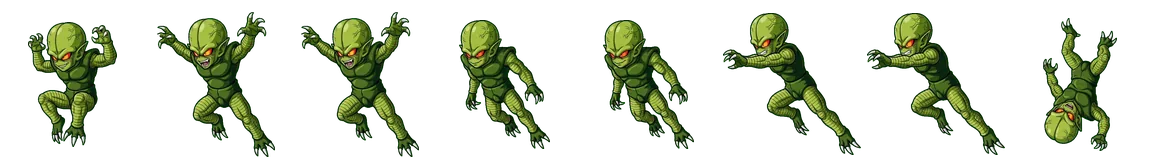
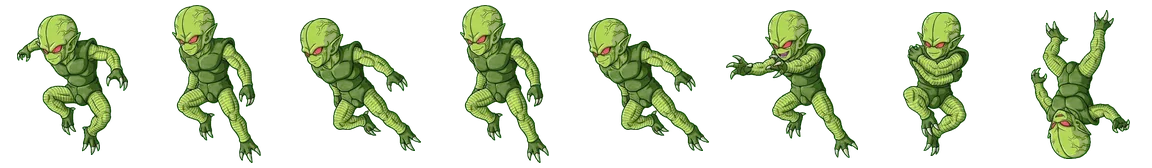
v0.103 (em andamento): pacotes de todos os personagens, raio da mão, retratos leves, minions refeitos
Claude-Session: https://claude.ai/code/session_01QkbtJoCpGHcYGXCafKsAMX

diff --git a/conjuntos.js b/conjuntos.js
@@ -23,14 +23,42 @@ const CONJ_FPS_PADRAO = 12;
 // (pés na linha 103 do quadro 96x112 e o centro em x=48, como os desenhos de sprites.js).
 // ---------------------------------------------------------------------------------------------------------------
 const CONJ_PACOTES = {
-    // usar: movimento que reaproveita os quadros de outro. As diagonais para trás do Vegeta usam o voo para trás
-    // (de frente para o inimigo, tronco para trás) — nas recortadas ele ficava de cabeça para baixo.
-    vegeta: { arquivo: "conjuntos/vegeta.json", personagem: "vegeta", nome: "VEGETA SPRITES", marca: "saiyan_conjunto_vegeta",
-        usar: { flyUpLeft: "flyLeft", flyDownLeft: "flyLeft" } },
     // v0.102: desenhos do jogador (gerados no Gemini) para as 4 formas do Goku; já entra como o conjunto em uso.
     // variantes = base + transformações em ordem (o jogo usa a forma do nível atual)
     goku: { arquivo: "conjuntos/goku.json", personagem: "goku_adult", nome: "GOKU SPRITES", marca: "saiyan_conjunto_goku",
-        variantes: ["normal", "ssj", "ssj3", "blue"], ativar: true }
+        variantes: ["normal", "ssj", "ssj3", "blue"], ativar: true },
+    // v0.103: todos os outros personagens com os desenhos do Gemini (o Vegeta troca os sprites recortados antigos;
+    // marca nova para entrar de novo em quem já tinha o pacote antigo)
+    vegeta: { arquivo: "conjuntos/vegeta.json", personagem: "vegeta", nome: "VEGETA SPRITES", marca: "saiyan_conjunto_vegeta_103",
+        variantes: ["normal", "ssj", "blue", "blue_evo"], ativar: true },
+    piccolo: { arquivo: "conjuntos/piccolo.json", personagem: "piccolo", nome: "PICCOLO SPRITES", marca: "saiyan_conjunto_piccolo",
+        variantes: ["normal"], ativar: true },
+    freeza: { arquivo: "conjuntos/freeza.json", personagem: "freeza_1", nome: "FREEZA SPRITES", marca: "saiyan_conjunto_freeza",
+        variantes: ["f1", "f2", "f3", "final", "ciborgue", "golden", "black"], ativar: true },
+    trunks: { arquivo: "conjuntos/trunks.json", personagem: "trunks", nome: "TRUNKS SPRITES", marca: "saiyan_conjunto_trunks",
+        variantes: ["normal", "ssj"], ativar: true },
+    gohan: { arquivo: "conjuntos/gohan.json", personagem: "gohan", nome: "GOHAN SPRITES", marca: "saiyan_conjunto_gohan",
+        variantes: ["normal", "ssj", "ssj2"], ativar: true },
+    kaioshin: { arquivo: "conjuntos/kaioshin.json", personagem: "kaioshin", nome: "SUPREMO SR. KAIO SPRITES", marca: "saiyan_conjunto_kaioshin",
+        variantes: ["normal"], ativar: true },
+    vegetto: { arquivo: "conjuntos/vegetto.json", personagem: "gogeta", nome: "VEGETTO SPRITES", marca: "saiyan_conjunto_vegetto",
+        variantes: ["normal"], ativar: true },
+    bardock: { arquivo: "conjuntos/bardock.json", personagem: "bardock", nome: "BARDOCK SPRITES", marca: "saiyan_conjunto_bardock",
+        variantes: ["normal"], ativar: true },
+    android17: { arquivo: "conjuntos/android17.json", personagem: "android17", nome: "ANDROIDE 17 SPRITES", marca: "saiyan_conjunto_android17",
+        variantes: ["normal"], ativar: true },
+    android18: { arquivo: "conjuntos/android18.json", personagem: "android18", nome: "ANDROIDE 18 SPRITES", marca: "saiyan_conjunto_android18",
+        variantes: ["normal"], ativar: true },
+    buu: { arquivo: "conjuntos/buu.json", personagem: "majin_buu", nome: "MAJIN BUU SPRITES", marca: "saiyan_conjunto_buu",
+        variantes: ["kid", "gordo"], ativar: true },
+    raditz: { arquivo: "conjuntos/raditz.json", personagem: "raditz", nome: "RADITZ SPRITES", marca: "saiyan_conjunto_raditz",
+        variantes: ["normal"], ativar: true },
+    broly: { arquivo: "conjuntos/broly.json", personagem: "broly", nome: "BROLY SPRITES", marca: "saiyan_conjunto_broly",
+        variantes: ["normal", "lssj"], ativar: true },
+    gotenks: { arquivo: "conjuntos/gotenks.json", personagem: "gotenks", nome: "GOTENKS SPRITES", marca: "saiyan_conjunto_gotenks",
+        variantes: ["normal", "ssj"], ativar: true },
+    cell: { arquivo: "conjuntos/cell.json", personagem: "cell", nome: "CELL SPRITES", marca: "saiyan_conjunto_cell",
+        variantes: ["f1", "semi", "perfeito"], ativar: true }
 };
 // variantes de um pacote (os pacotes antigos têm só normal + ssj)
 function conjVariantes(nome, d) {
@@ -58,7 +86,9 @@ function conjEmbrulharQuadro(d, q, st) {
 
 function conjRegistrarPacote(nome, d) {
     // loop: { variante: { movimento: quadro do cadeado } }; fpsMov: quadros por segundo de cada movimento
-    const pronto = { fps: d.fps || 10, fpsMov: d.fpsMov || {}, loop: d.loop || {} };
+    // mao/dedo: { variante: [x, y] } = ponto (fração do desenho 96x112) de onde sai o raio do especial (a mão ou o
+    // brilho no último quadro) e a ponta do dedo levantado (sol do Freeza), medidos ao montar o pacote
+    const pronto = { fps: d.fps || 10, fpsMov: d.fpsMov || {}, loop: d.loop || {}, mao: d.mao || {}, dedo: d.dedo || {} };
     conjVariantes(nome, d).forEach(v => {
         if (!d[v]) return;
         pronto[v] = {};
@@ -132,10 +162,27 @@ function conjuntoQuadros(charKey, st, nivel) {
 }
 
 // Retrato do personagem (cartões do DATABASE/SELEÇÃO): o 1º quadro parado da base do conjunto em uso
+// v0.103: os cartões não baixam os pacotes inteiros (vários MB cada): enquanto o pacote não chegou, usam o retrato
+// leve de conjuntos/retratos.json (1º quadro parado da base de cada pacote, no mesmo formato dos quadros)
+let conjRetratos = null, conjRetratosPedido = false;
 function conjRetratoUrl(c) {
     const g = conjGrupoAtivo(c);
     if (!g) return null;
-    const q = conjQuadrosDaForma(conjFormaDoNivel(c, g, 0), "idle");
+    const f = conjFormaDoNivel(c, g, 0);
+    if (f && f.pacote && !conjPacoteDados[f.pacote]) {
+        if (!conjRetratosPedido && typeof fetch === "function") {
+            conjRetratosPedido = true;
+            try {
+                fetch("conjuntos/retratos.json").then(r => r.json()).then(d => {
+                    conjRetratos = {};
+                    for (const nome in d) conjRetratos[nome] = conjEmbrulharQuadro(d[nome], d[nome].q, "idle");
+                    conjAoMudar();
+                }).catch(() => { conjRetratosPedido = false; });
+            } catch (e) { conjRetratosPedido = false; }
+        }
+        return conjRetratos && conjRetratos[f.pacote] || null;
+    }
+    const q = conjQuadrosDaForma(f, "idle");
     return q && q[0] ? q[0] : null;
 }
 
@@ -159,6 +206,17 @@ function conjuntoTrava(charKey, st, nivel) {
     const g = conjGrupoAtivo(c);
     if (!g) return -1;
     return conjTravaDaForma(conjFormaDoNivel(c, g, nivel | 0), st);
+}
+
+// Ponto do especial na forma do nível (tipo "mao" ou "dedo"), em frações do desenho; null sem pacote/ponto
+function conjuntoPonto(charKey, tipo, nivel) {
+    const c = typeof characterDB !== "undefined" ? characterDB[charKey] : null;
+    const g = conjGrupoAtivo(c);
+    if (!g) return null;
+    const f = conjFormaDoNivel(c, g, nivel | 0);
+    const p = f && f.pacote ? conjPacoteDados[f.pacote] : null;
+    const pt = p && p[tipo] ? p[tipo][f.variante] : null;
+    return Array.isArray(pt) && pt.length === 2 ? pt : null;
 }
 
 function conjuntoFps(charKey, st, nivel) {

diff --git a/index.html b/index.html
@@ -1642,9 +1642,13 @@
                 Novidades e correções do jogo.
             </p>
             <ul id="lista-updates" style="margin: 0 0 18px; color: #ddd; line-height: 1.5; padding: 0 4px 0 0; list-style: none; overflow-y: auto;">
-                <li class="upd-versao"><h3>Versão 0.102 (ATUAL)</h3><p>Goku e minions com desenhos novos (teste)</p></li>
-                <li class="upd-item upd-novo"><span class="upd-tag">NOVO</span><strong>Goku com desenhos novos</strong><p>O Goku ganhou desenhos novos nas 4 formas (normal, Super Saiyajin, Super Saiyajin 3 e Blue), com 8 quadros em cada um dos 14 movimentos: parado, voos, parry com tapa das costas da mão, rajada de ki, carregar ki, transformação e Kamehameha. Já entram em uso; o desenho antigo continua no editor (conjunto ORIGINAL).</p></li>
-                <li class="upd-item upd-novo"><span class="upd-tag">NOVO</span><strong>Saibaman e Cell Jr. novos</strong><p>Os minions ganharam desenhos novos, virados para o herói: saltando, voando, investindo com as garras e girando quando são arremessados. Quem trocar as cores do minion no editor continua com o desenho antigo.</p></li>
+                <li class="upd-versao"><h3>Versão 0.103 (ATUAL)</h3><p>Todos os personagens com desenhos novos</p></li>
+                <li class="upd-item upd-novo"><span class="upd-tag">NOVO</span><strong>Desenhos novos para todos</strong><p>Vegeta (4 formas), Piccolo, Freeza (as 7 formas, até o Black Freeza), Trunks, Gohan (3 formas), Supremo Sr. Kaio, Vegetto, Bardock, Androide 17, Androide 18, Majin Buu (Kid Buu e Buu gordo), Raditz, Broly (normal e Lendário), Gotenks (normal e Super Saiyajin) e Cell (as 3 formas) ganharam desenhos novos nos 14 movimentos. Já entram em uso; o desenho antigo de cada um continua no editor (conjunto ORIGINAL).</p></li>
+                <li class="upd-item upd-novo"><span class="upd-tag">NOVO</span><strong>Especial sai da mão</strong><p>Nos personagens com desenhos novos, o raio do especial sai da mão (ou do brilho) do próprio desenho, e a bola do Freeza nasce em cima do dedo levantado dele.</p></li>
+                <li class="upd-item upd-melhorado"><span class="upd-tag">MELHORADO</span><strong>Goku e minions</strong><p>O Goku recebeu voos, rajada de ki e Kamehameha refeitos. O Saibaman e o Cell Jr. agora agarram as pernas do herói sozinhos.</p></li>
+                <li class="upd-versao"><h3>Versão 0.102</h3><p>Goku e minions com desenhos novos (teste)</p></li>
+                <li class="upd-item upd-criacao"><span class="upd-tag">CRIAÇÃO</span><strong>Goku com desenhos novos</strong><p>O Goku ganhou desenhos novos nas 4 formas (normal, Super Saiyajin, Super Saiyajin 3 e Blue), com 8 quadros em cada um dos 14 movimentos: parado, voos, parry com tapa das costas da mão, rajada de ki, carregar ki, transformação e Kamehameha. Já entram em uso; o desenho antigo continua no editor (conjunto ORIGINAL).</p></li>
+                <li class="upd-item upd-criacao"><span class="upd-tag">CRIAÇÃO</span><strong>Saibaman e Cell Jr. novos</strong><p>Os minions ganharam desenhos novos, virados para o herói: saltando, voando, investindo com as garras e girando quando são arremessados. Quem trocar as cores do minion no editor continua com o desenho antigo.</p></li>
                 <li class="upd-versao"><h3>Versão 0.101</h3><p>Mais especiais animados</p></li>
                 <li class="upd-item upd-melhorado"><span class="upd-tag">MELHORADO</span><strong>Especiais animados</strong><p>O Broly solta o raio verde, o Raditz e o Bardock o raio vermelho, e o Trunks e o Androide 17 o raio azul com cabeça. Dá para trocar no editor (Animação do especial).</p></li>
                 <li class="upd-versao"><h3>Versão 0.100</h3><p>Rajada de ki do Freeza com a esfera roxa</p></li>

diff --git a/tests/versao-103.test.js b/tests/versao-103.test.js
@@ -1,0 +1,52 @@
+// tests/versao-103.test.js — versão 0.103: desenhos do Gemini para todos os personagens (pacotes em conjuntos/),
+// raio do especial saindo da mão do desenho e retratos leves para os cartões.
+//
+// Uso: node tests/versao-103.test.js
+
+const fs = require("fs");
+const { createHarness } = require("./harness.js");
+const dir = __dirname + "/..";
+const h = createHarness(dir, 800);
+const { run, check, summary, context } = h;
+
+const pacotes = run("CONJ_PACOTES");
+const estados = run("CONJ_ESTADOS");
+const retratos = JSON.parse(fs.readFileSync(dir + "/conjuntos/retratos.json", "utf8"));
+
+// ---------- pacotes ----------
+Object.keys(pacotes).forEach(nome => {
+    const p = pacotes[nome];
+    const d = JSON.parse(fs.readFileSync(dir + "/" + p.arquivo, "utf8"));
+    check(`${nome}: variantes do pacote iguais às do jogo`, JSON.stringify(d.variantes) === JSON.stringify(p.variantes));
+    check(`${nome}: cada forma tem os 14 movimentos`, p.variantes.every(v => estados.every(st => Array.isArray(d[v][st]) && d[v][st].length >= 5)),
+        p.variantes.map(v => estados.filter(st => !(d[v][st] && d[v][st].length >= 5)).join(",")).join(" | "));
+    check(`${nome}: ponto da mão do especial em cada forma, dentro do desenho`,
+        p.variantes.every(v => Array.isArray(d.mao[v]) && d.mao[v][0] > 0.4 && d.mao[v][0] < 1.6 && d.mao[v][1] > -0.3 && d.mao[v][1] < 1.1));
+    check(`${nome}: entra uma vez como conjunto em uso`, run(`characterDB.${p.personagem}.spriteActive`) === "g_" + nome &&
+        run(`characterDB.${p.personagem}.spriteGroups.find(g => g.id === 'g_${nome}').transfs.length`) === p.variantes.length - 1);
+    check(`${nome}: retrato leve para os cartões`, !!(retratos[nome] && retratos[nome].q && retratos[nome].q[4]));
+    check(`${nome}: transformações do jogo cobrem as formas do pacote`, run(`getCharacterTransformations('${p.personagem}').length`) >= p.variantes.length - 1);
+});
+check("Freeza: ponto do dedo levantado (sol) em cada forma",
+    (() => { const d = JSON.parse(fs.readFileSync(dir + "/conjuntos/freeza.json", "utf8")); return pacotes.freeza.variantes.every(v => Array.isArray(d.dedo[v]) && d.dedo[v][1] < 0.5); })());
+
+// ---------- raio da mão ----------
+context.__d = JSON.parse(fs.readFileSync(dir + "/conjuntos/broly.json", "utf8"));
+run("conjRegistrarPacote('broly', __d)");
+const mao = run("conjuntoPonto('broly', 'mao', 0)");
+check("conjuntoPonto lê a mão da forma do nível", Array.isArray(mao) && JSON.stringify(mao) === JSON.stringify(context.__d.mao.normal) &&
+    JSON.stringify(run("conjuntoPonto('broly', 'mao', 1)")) === JSON.stringify(context.__d.mao.lssj));
+check("sem pacote em uso não há ponto", run("conjuntoPonto('broly', 'dedo', 0)") === null &&
+    run("(() => { characterDB.broly.spriteActive = 'original'; const r = conjuntoPonto('broly', 'mao', 0); characterDB.broly.spriteActive = 'g_broly'; return r; })()") === null);
+const gp = fs.readFileSync(dir + "/gameplay.js", "utf8"), mn = fs.readFileSync(dir + "/menu.js", "utf8");
+check("o especial guarda a mão e o raio sai dela (espelhado no rival)", gp.includes('world.especialMao = typeof conjuntoPonto === "function"') &&
+    mn.includes("arteM.espelhar ? 1 - mao[0] : mao[0]"));
+
+// ---------- retratos ----------
+check("cartão sem o pacote carregado usa o retrato leve (não baixa o pacote)",
+    run("(() => { conjRetratos = { raditz: 'RET' }; const r = conjRetratoUrl(characterDB.raditz); return r; })()") === "RET" && !run("conjPacoteCarregando.raditz"));
+
+// ---------- minions ----------
+check("tiras dos minions continuam com 8 poses", ["saibaman", "celljr"].every(m => fs.statSync(`${dir}/minions/${m}.webp`).size > 10000));
+
+process.exit(summary());

diff --git a/tests/conjuntos-sprites.test.js b/tests/conjuntos-sprites.test.js
@@ -10,24 +10,25 @@ const h = createHarness(__dirname + "/..", 800);
 const { run, check, summary, context } = h;
 const html = fs.readFileSync(__dirname + "/../index.html", "utf8");
 
-// ---------- pacote do Vegeta ----------
+// ---------- pacote do Vegeta (v0.103: desenhos do Gemini, 4 formas, já em uso) ----------
 const pacote = JSON.parse(fs.readFileSync(__dirname + "/../conjuntos/vegeta.json", "utf8"));
 const estados = run("CONJ_ESTADOS");
-check("pacote do Vegeta tem os 14 movimentos, normal e Super Saiyajin (6 quadros; o especial Galick Ho, 5)",
-    ["normal", "ssj"].every(v => estados.every(st => Array.isArray(pacote[v][st]) && pacote[v][st].length === (st === "special" ? 5 : 6))));
-check("Vegeta já vem com o conjunto azul (base + Super Saiyajin), disponível e não ativo",
-    run("characterDB.vegeta.spriteGroups.some(g => g.id === 'g_vegeta' && g.transfs.length === 1)") && run("characterDB.vegeta.spriteActive") === "original");
-check("o conjunto do Vegeta entra uma vez só (apagado, não volta)", run("readStorage('saiyan_conjunto_vegeta')") === "1");
+check("pacote do Vegeta tem os 14 movimentos nas 4 formas",
+    ["normal", "ssj", "blue", "blue_evo"].every(v => estados.every(st => Array.isArray(pacote[v][st]) && pacote[v][st].length >= 5)));
+check("Vegeta já vem com o conjunto azul (base + 3 transformações) em uso",
+    run("characterDB.vegeta.spriteGroups.some(g => g.id === 'g_vegeta' && g.transfs.length === 3)") && run("characterDB.vegeta.spriteActive") === "g_vegeta");
+check("o conjunto do Vegeta entra uma vez só (apagado, não volta)", run("readStorage('saiyan_conjunto_vegeta_103')") === "1");
 context.__pacote = pacote;
 run("conjRegistrarPacote('vegeta', __pacote)");
 const q = run("conjQuadrosDaForma(conjFormaPorId(characterDB.vegeta.spriteForms, 'pk_vegeta_base'), 'idle')");
-check("cada quadro vira desenho em pixel art do tamanho dos lutadores (pés na linha 103)", q.length === 6 && decodeURIComponent(q[0]).includes("crispEdges") && decodeURIComponent(q[0]).includes('viewBox="0 0 96 112"'));
+check("cada quadro vira desenho em pixel art do tamanho dos lutadores (pés na linha 103)", q.length === pacote.normal.idle.length && decodeURIComponent(q[0]).includes("crispEdges") && decodeURIComponent(q[0]).includes('viewBox="0 0 96 112"'));
+run("characterDB.vegeta.spriteActive = 'original'");
 check("ORIGINAL em uso: a luta usa as animações de sempre", run("getCharacterAnimationFrames('vegeta', 'idle', 0)[0]") === run("characterDB.vegeta.animations.idle[0]"));
 run("characterDB.vegeta.spriteActive = 'g_vegeta'");
 check("conjunto do Vegeta em uso: parado com os sprites", run("getCharacterAnimationFrames('vegeta', 'idle', 0)[0]") === q[0]);
 const ssj = run("getCharacterAnimationFrames('vegeta', 'flyRight', 1)");
-check("transformado: quadros do Super Saiyajin", ssj.length === 6 && ssj[0] !== run("getCharacterAnimationFrames('vegeta', 'flyRight', 0)[0]"));
-check("transformando mais vezes do que o conjunto tem, fica na última", run("getCharacterAnimationFrames('vegeta', 'flyRight', 3)[0]") === ssj[0]);
+check("transformado: quadros do Super Saiyajin", ssj.length === pacote.ssj.flyRight.length && ssj[0] !== run("getCharacterAnimationFrames('vegeta', 'flyRight', 0)[0]"));
+check("transformando mais vezes do que o conjunto tem, fica na última", run("getCharacterAnimationFrames('vegeta', 'flyRight', 6)[0]") === run("getCharacterAnimationFrames('vegeta', 'flyRight', 3)[0]"));
 check("golpe do vilão (sem quadro próprio) usa o parado do conjunto", run("getCharacterAnimationFrames('vegeta', 'hit', 0)[0]") === q[0]);
 run("characterDB.vegeta.spriteActive = 'original'");
 

diff --git a/menu.js b/menu.js
@@ -5854,9 +5854,12 @@ function drawSpecialBeams() {
 
         const fromP2 = world.beamOwner === "p2";
         const src = fromP2 ? player2 : player;
-        const py = src.y + src.h / 2;
-        const beamX = fromP2 ? 0 : src.x + src.w;
-        const beamW = fromP2 ? src.x : canvas.width - beamX;
+        // v0.103: com desenho do pacote o raio sai da mão (ou do brilho) do último quadro do especial
+        const mao = world.especialMao, arteM = src.arte;
+        const maoX = mao && arteM ? arteM.x + arteM.w * (arteM.espelhar ? 1 - mao[0] : mao[0]) : null;
+        const py = maoX !== null ? arteM.y + arteM.h * mao[1] : src.y + src.h / 2;
+        const beamX = fromP2 ? 0 : (maoX !== null ? maoX : src.x + src.w);
+        const beamW = fromP2 ? (maoX !== null ? maoX : src.x) : canvas.width - beamX;
         const passou = (world.beamDuracao || 40) - world.beamActive;   // quadros desde o disparo
         if (world.especialEfeito === "sol_freeza" && efeitoPronto("sol_freeza")) {
             drawSolDoFreeza(src, fromP2 ? player : player2, fromP2, passou);
@@ -5869,7 +5872,7 @@ function drawSpecialBeams() {
             // (lado esquerdo da imagem) fica na mão de quem atira; o rival atira para a esquerda (espelhado)
             const dh = (world.beamIsSuper ? 34 : 25) * 2 * 1.45;
             const total = beamW + dh * 0.2, len = total * Math.min(1, passou / 9);
-            ctx.translate(fromP2 ? src.x : beamX, py);
+            ctx.translate(fromP2 ? beamW : beamX, py);
             if (fromP2) ctx.scale(-1, 1);
             desenharEfeito(efEsp, passou / 60, -dh * 0.2, -dh / 2, Math.max(dh * 0.5, len), dh);
             ctx.restore();

diff --git a/tests/versao-083.test.js b/tests/versao-083.test.js
@@ -42,10 +42,10 @@ check("altura salva no personagem vale mais que a padrão", run("(() => { charac
 check("save antigo com escala vira altura equivalente", run("(() => { characterDB.__teste = Object.assign({}, characterDB.goku_adult, { scale: 1.2 }); const a = getAlturaPersonagem('__teste', 0); delete characterDB.__teste; return a; })()") === 210);
 
 // ---------- Vegeta: diagonais para trás ----------
+// v0.103: o pacote do Vegeta foi refeito (desenhos do Gemini, em pé nas diagonais): cada diagonal tem os seus quadros
 const pacote = JSON.parse(fs.readFileSync(__dirname + "/../conjuntos/vegeta.json", "utf8"));
 h.context.__pacote = pacote;
 run("conjRegistrarPacote('vegeta', __pacote)");
-check("diagonais para trás do Vegeta usam o voo para trás (sem ficar de cabeça para baixo)",
-    run("['normal', 'ssj'].every(v => ['flyUpLeft', 'flyDownLeft'].every(st => JSON.stringify(conjPacoteDados.vegeta[v][st]) === JSON.stringify(conjPacoteDados.vegeta[v].flyLeft)))") === true);
+check("diagonais para trás do Vegeta têm quadros próprios", run("['normal', 'ssj'].every(v => ['flyUpLeft', 'flyDownLeft'].every(st => conjPacoteDados.vegeta[v][st].length > 0 && JSON.stringify(conjPacoteDados.vegeta[v][st]) !== JSON.stringify(conjPacoteDados.vegeta[v].flyLeft)))") === true);
 
 process.exit(summary());

diff --git a/gameplay.js b/gameplay.js
@@ -1427,7 +1427,11 @@ function triggerSpecialAttack(isP2 = false) {
     // vai devagar até o adversário: dura mais e o dano só entra quando a bola chega (world.especialPendente)
     world.especialEfeito = getEfeitoDoPersonagem(isP2 ? selectedBoss : selectedCharacter, "efeitoEspecial");
     const sol = world.especialEfeito === "sol_freeza";
-    world.solDedo = sol ? getPontaDoDedoNoEspecial(isP2 ? selectedBoss : selectedCharacter, getTransformLevel(caster)) : null;
+    const chaveEsp = isP2 ? selectedBoss : selectedCharacter, nivelEsp = getTransformLevel(caster);
+    // v0.103: personagem com desenhos do pacote — a ponta do dedo e a mão (de onde sai o raio) vêm do próprio desenho
+    const dedoPacote = typeof conjuntoPonto === "function" ? conjuntoPonto(chaveEsp, "dedo", nivelEsp) : null;
+    world.solDedo = sol ? (dedoPacote || getPontaDoDedoNoEspecial(chaveEsp, nivelEsp)) : null;
+    world.especialMao = typeof conjuntoPonto === "function" ? conjuntoPonto(chaveEsp, "mao", nivelEsp) : null;
     world.beamActive = sol ? SOL_DURACAO : 40;
     world.beamDuracao = world.beamActive;
     world.beamOwner = requestedOwner;

diff --git a/tests/versao-102.test.js b/tests/versao-102.test.js
@@ -18,7 +18,7 @@ check("cada forma tem os 14 movimentos com 7 ou 8 quadros", pacote.variantes.eve
 check("quadros em WebP, leve (menos de 3 MB)", pacote.mime === "image/webp" && fs.statSync(dir + "/conjuntos/goku.json").size < 3 * 1024 * 1024);
 check("o Goku já vem com o conjunto novo em uso (com as 3 transformações)",
     run("characterDB.goku_adult.spriteActive") === "g_goku" && run("characterDB.goku_adult.spriteGroups.find(g => g.id === 'g_goku').transfs.length") === 3);
-check("o Vegeta continua com o pacote antigo (2 formas) e não ativo", run("characterDB.vegeta.spriteGroups.find(g => g.id === 'g_vegeta').transfs.length") === 1 && run("characterDB.vegeta.spriteActive") === "original");
+check("o Vegeta também vem com o conjunto do Gemini em uso (v0.103)", run("characterDB.vegeta.spriteGroups.find(g => g.id === 'g_vegeta').transfs.length") === 3 && run("characterDB.vegeta.spriteActive") === "g_vegeta");
 context.__pacote = pacote;
 run("conjRegistrarPacote('goku', __pacote)");
 const idle = run("getCharacterAnimationFrames('goku_adult', 'idle', 0)");

diff --git a/AGENTS.md b/AGENTS.md
@@ -20,7 +20,7 @@ The character editor uses a sprite-sheet workflow. The legacy multi-card animati
 - [sprites.js](sprites.js): procedural 2D sprite engine with cel-shaded volume (shading/highlights), built from combinable parts — hair, clothes, tail, wings, back weapon, accessories (see `SPRITE_PRESETS`). Generates fluid per-frame poses for every animation state (`idle`, `flyRight`, `attackKi`, `parry`, `transform`...). Used by `loadDefaultCharacters` (starting roster) and the editor's CONSTRUTOR tab (database.js) to build characters from scratch. No DOM dependency — runs under Node for tests. There is a single drawing style — anime proportions rendered as crisp pixel art; the old "classic" style (and its builder option, migration code and the legacy 8-bit generator) was removed on purpose, so do not reintroduce a style switch. Saved builder characters are always regenerated from their appearance on load. Appearance features are independent of race (`gender`, `earType`, `headFeature`, `bodyMarks`); `spriteLegacyFeatures` converts saves made before that split (detected by a missing `bodyMarks`), so keep new presets explicit about these fields. A character without pants always gets underwear, and a female one with a bare torso gets a top. Freeza race pieces (any character can use them): `headFeature` capacete_freeza/capacete_chifres/cabeca_longa/meia_cabeca_metal (`spriteFreezaHead`), `bodyMarks` listras_freeza/carapaca_freeza (pink striped limbs/belly/tail, `SPRITE_MARCAS_ROSA`, `spriteLimbSkin`), freeza (final form plates) and metal_freeza (cyborg), outfit armadura_exercito, gloves bracadeiras_freeza, shoes pes_garras/caneleiras_freeza (`spriteClawFoot`); Namek marks draw pink striated arm plates, red wrist band and pink abs (`spriteArmMarks`/`spriteTorsoMarks`). The Freeza character (`freeza_1`) starts in the 1st form with `FREEZA_TRANSFORMACOES` (2nd, 3rd, final, cyborg, Golden, Black — the last two are the final form recoloured via `skinColor`/`primaryColor`, added once to saved Freezas through `saiyan_freeza_golden`; `atualizarFreezaSalvo` migrates the old saved final-form Freeza once); `tests/freeza-formas.test.js`. When previewing several sprite SVGs on one page, use separate <img> data URLs — inline SVGs share gradient ids. Seamless joints: the torso outline is drawn before the legs (`spriteTorsoOutline`) and the torso fill has no stroke; hands/feet put their outline under the limb fill (`spriteHand(..., parts)`, foot base in `spriteLeg`); the neck has no bottom stroke — keep this order when adding body parts. The cyborg Freeza (`metal_freeza`) keeps the final-form skin: only the back arm, legs, tail, right half of the torso, top of the head and the front eye (lens) are metal (`SPRITE_METAL`). Cell pieces: `bodyMarks` cell_imperfeito/cell_semi/cell_perfeito paint each body part from `SPRITE_CELL` (`spriteCellCores`: biceps/forearm/thigh/shin/torso colours, black spots only on green via `spriteCellPintas`, shin colour `spec.legLower`), `headFeature` capacete_cell1/2/3 (`spriteCellHead`), wings cell_abertas (1st form, green frame)/cell (semi, short closed)/cell_capa (perfect, long closed cape), tail cell (over the shoulder; low, thick and orange-ringed on the semi), organic spots `spriteCellMancha`, shoes sapato_cell/sapato_ponta (`spriteCellShoe`); the Cell character starts in the 1st form with `CELL_TRANSFORMACOES` (semi-perfect, perfect; `atualizarCellSalvo` migrates the old saved Cell once); `tests/cell-formas.test.js`. Heroes follow the player's references (v0.74): Goku symbol `go` (悟) and `botas_artes` with red seam/yellow ankle cord; Vegeta `armadura_saiyajin` with big arched accent-colour shoulder pads, belly and thigh flaps, `scouter_vermelho`, tail `cinto_saiyajin` tucked in; Trunks `trunks_futuro` short parted hair, cropped `jaqueta_trunks` with yellow belt, yellow `botas_trunks` with striped toe, turquoise sword strap drawn on the torso; Gohan `botas_dobradas`, `GOHAN_TRANSFORMACOES` (SSJ without cape; SSJ2 with `gohan_ssj2` hair — blue sparks when ssj — and `gi_rasgado`); `atualizarHeroisSalvos` swaps unedited old saves once (`saiyan_herois_074`, `tests/herois-referencia.test.js`). v0.75: GOGETA is now VEGETTO (key `gogeta`, preset `fusao`: hair `vegetto`, `potara_amarelo`, kimono dark blue over orange `camiseta`, `botas_vegetto`); Broly (Super) base = hair `broly`, `coleira`, `armadura_broly` (green pads/gem in `spriteShoulderPads`), `manto_cintura` cape (back in `spriteBack`, front roll/knot in `spriteRenderFigure`), `munhequeiras_borda`, `botas_broly`, with `BROLY_TRANSFORMACOES` (Lendário: `broly_lssj`, `eyeType` `vazio`, scar `lendario`, build gigante); Majin Buu base = Kid Buu (`antena_longa`, bodyMarks `majin` arm holes, mouth `sadico`, `faixa_majin` belt, pants `bufante`, `bracadeiras_majin`, `botas_majin`) with `BUU_TRANSFORMACOES` (Buu gordo: `capa_no`, `colete_buu`, `luvas_douradas`, `botas_douradas`, mouth `alegre`); new Gotenks (`gotenks` preset/default: `gotenks_bicolor` hair uses `hairColor2` on the sides, `colete_metamoran`, `sapatilhas_faixa`, `munhequeiras_escuras`). Builder-only: innerShirt `malha_gola` (collar drawn in `spriteHead`) and SSJ hair `ssj_solto`/`ssj_volumoso`/`ssj_vegeta`/`blue_goku`/`blue_vegeta` (outlined strands with cream/dark bands). A transformation with `ssj` and `hairColor` in its diff paints the hair that colour instead of `#ffe34d` (`spriteSsjColor` → `opts.ssjColor`, part of the frame cache key). Builder pieces from the Vegeta sprites (v0.76): hair `vegeta_sprite`, outfit `armadura_curta` (small round pads in `spriteShoulderPads`), innerShirt `macacao`, gloves `luvas_punho_largo`, shoes `botas_ponta_dourada`; `armPose` (POSIÇÃO DOS BRAÇOS) `cruzados` crosses the arms in idle and the forward/back/up fly poses (`pose.cruzavel`; the back arm is then drawn after the torso). `atualizarPersonagens075` migrates unedited old saves once (`saiyan_personagens_075`, `PERSONAGENS_ANTIGOS_075`); `tests/personagens-075.test.js`. Cell head: green lobes over both ears (`lobo` in `spriteCellHead`); the perfect form's black plate covers the whole top of the head; Cell torso pieces use thin dark strokes (`suave`). Muscles follow the build (`SPRITE_MUSCLE_LEVEL` → `B.mus`: musculoso/gigante strong, normal medium, magro/jovem light, female only tone, gordo none): a bare torso gets pecs/abs/obliques (`spriteBareTorsoMuscles`), bare limbs get muscle lines (`spriteMuscleLine`), clothes only show soft folds. Each builder option must only change its own body part: the outfit (`SPRITE_OUTFITS`) never paints pants or the undershirt — pants use `pantsColor`, the undershirt (`camiseta`/`regata`/`malha`) uses `shirtColor`, and race only changes skin color (`spriteLegacyClothes` converts older saves). `tests/opcoes-independentes.test.js` enforces this and that no two options of a field draw the same. Transformations: each character has an ordered list (`getCharacterTransformations` in database.js, default `SPRITE_DEFAULT_TRANSFORMATION` = the classic SSJ look) where each entry stores only `diff` (fields that differ from the base appearance, see `spriteAppearanceDiff`/`spriteTransformAppearance`), plus `ssj` and `aura`. The editor's TRANSFORMAÇÃO tab edits them through the existing builder form (no second editor); a new one starts from the form picked in "COPIAR O CORPO DE" (`#transform-copy-from`, copies that entry's diff); changing RAÇA re-selects the race skin colour (`escolherRaca`); `tests/transformacao-editor.test.js`; in battle `transformLevel`/`getTransformLevel` advances one level per TRANSFORMAR with full ki. The villain (`selectedBoss`, any editor character) does the same on its own from wave 3, one level each time its ki fills; poses without procedural frames (the villain's `hit`) use the transformed idle so the look never flips back. `tests/transformacoes.test.js` covers it.
 - Animated effects (v0.80, [efeitos/](efeitos/)): the player's GIFs turned into horizontal frame strips (`EFEITOS` in menu.js: n, w, h, ms per frame; loaded once at load time into `efeitoImagens`, drawn by `desenharEfeito`). Ki aura colours in `AURA_EFEITOS` (verde/azul/amarelo/vermelho — roxo was removed in v0.81 and uses the drawn flame; the second entry is the strong one, used while charging or with the transformation power) replace the procedural flame in `drawKiAura` (the others keep `getKiAuraFrame`); the capsule shield draws `escudo_azul`; shots pick `tiro_vermelho`/`tiro_laranja`/`tiro_amarelo` by hue (`getTiroEfeito`) and are rotated to their velocity; any other colour, or an image not loaded yet, falls back to the old drawing. `tests/efeitos-080.test.js`.
 - Powers v0.98 (player's GIFs → strips in efeitos/, black backgrounds removed, big ones quantized to 256 colours; `EFEITOS` entries may carry `cabeca` (shot centre across the width), `tam` (height in shot radii), `laco` (loop from this frame after the 1st pass, `efeitoQuadro`), `alfa`; one-shot effects use `efeitoQuadroUnico`/`desenharEfeitoQuadro`). Per character `efeitoTiro`/`efeitoEspecial`/`efeitoAura` (editor DADOS selects `#char-efeito-*`, lists `EFEITOS_DO_TIRO`/`EFEITOS_DO_ESPECIAL`/`EFEITOS_DA_AURA` in database.js — keep the HTML options, these lists, arquivos.js and formatos/LEIA-ME.md in sync; "cor" = old drawing by colour); empty = `getEfeitoDoPersonagem` falls back to the `DEFAULT_CHARACTERS` entry. Shots carry `o.efeito` (`fireKiBarrage`, `spawnBossAttack` wraps `spawnBossAttackPadrao`; default `tiro_pixel`, Freeza `esfera_roxa` (v0.100); any `armPose` "dedo" character shoots from the fingertip `TIRO_DEDO_ALTURA`). Special: `world.especialEfeito` (Kamehameha for Goku/Gohan/Gotenks/Vegetto/Cell; v0.101: `raio_verde` Broly, `raio_vermelho` Raditz/Bardock, `raio_azul` Trunks/Androide 17; drawn growing from the hand in `drawSpecialBeams`); `sol_freeza` = `drawSolDoFreeza` (sits fully ABOVE the real fingertip — `spritePontaDoDedo` in sprites.js gives it as a fraction of the frame, `world.solDedo` at the trigger, mapped through `p.arte` = where `drawPlayerEntity` drew the art, mirror-aware; grows over the raised finger `SOL_CRESCE`, pushed `SOL_EMPURRA`, flies to the target `SOL_CHEGA`; damage delayed in `world.especialPendente` → `aplicarDanoDoEspecial`). Parry wave `drawParryOnda`, minion explosion `explosao` in `drawSaibamanBlasts`, VERSUS clash `raio_pontas`. Auras: `roxo` → `aura_roxa`, new colours `blue` (`aura_azul_chama`) and `azul_escuro` (`aura_azul_escura`); `GOKU_BLUE`/`VEGETA_TRANSFORMACOES`, added once to saves by `transformacoesBlue098`. Builder `armPose` "dedo" (`spritePoseDedo`, hand "dedo" with `ponta` in `spriteArm`) gives the finger attack/special poses; the Freeza preset uses it (`saiyan_freeza_dedo_098` migrates saved Freezas). `tests/versao-098.test.js`.
-- Gemini drawings (v0.102): the player's AI-generated sprites (one image per movement, 8 poses in a row on a green background; prompt kept outside the repo). Packs are built offline: the green is keyed out, the 8 poses are split by a seam through the emptiest pixels (they touch), each frame is anchored (grounded moves: centre of the feet; flights: centre of mass), scaled so the idle is 88 units tall and stored as WebP in `conjuntos/<nome>.json` (`mime`, `variantes` = base + each transformation in order, `fpsMov` = fps per movement: parry 32, attackKi 14, transform 11, special 12 so the whole sequence fits the action time). A variant's `transform` is the PREVIOUS form's TRANSFORMAR strip (the level goes up before the animation plays). `CONJ_PACOTES.goku` (`variantes`, `ativar`: the group becomes the active one when seeded once via `saiyan_conjunto_goku`; ORIGINAL stays in the editor); `conjVariantes`, `conjuntoFps` read `fpsMov`. Minions: `minions/<modelo>.webp` = 8 cells of 144x168 (the classic canvas, body centred, facing LEFT) in the order of `MINION_IMAGEM_POSES` (saltar, voar ×4, investir, agarrar, arremessado); `desenharMinionClassico` draws the cell when `minionImagemPronta` (model has an image and no edited colours) — edited colours keep the classic drawing; the fight now uses the poses `investir` and `arremessado` (classic maps them to agarrar/saltar). The Gemini "agarrando" pose hugged itself, so agarrar reuses the lunge. `tests/versao-102.test.js`.
+- Gemini drawings (v0.102): the player's AI-generated sprites (one image per movement, 8 poses in a row on a green background; prompt kept outside the repo). Packs are built offline: the green is keyed out, the 8 poses are split by a seam through the emptiest pixels (they touch), each frame is anchored (grounded moves: centre of the feet; flights: centre of mass), scaled so the idle is 88 units tall and stored as WebP in `conjuntos/<nome>.json` (`mime`, `variantes` = base + each transformation in order, `fpsMov` = fps per movement: parry 32, attackKi 14, transform 11, special 12 so the whole sequence fits the action time). A variant's `transform` is the PREVIOUS form's TRANSFORMAR strip (the level goes up before the animation plays). `CONJ_PACOTES.goku` (`variantes`, `ativar`: the group becomes the active one when seeded once via `saiyan_conjunto_goku`; ORIGINAL stays in the editor); `conjVariantes`, `conjuntoFps` read `fpsMov`. Minions: `minions/<modelo>.webp` = 8 cells of 144x168 (the classic canvas, body centred, facing LEFT) in the order of `MINION_IMAGEM_POSES` (saltar, voar ×4, investir, agarrar, arremessado); `desenharMinionClassico` draws the cell when `minionImagemPronta` (model has an image and no edited colours) — edited colours keep the classic drawing; the fight now uses the poses `investir` and `arremessado` (classic maps them to agarrar/saltar). v0.103: every default character except the minions' builder look has a Gemini pack in `CONJ_PACOTES` (all `ativar`; Vegeta's old cropped pack was replaced, new mark `saiyan_conjunto_vegeta_103`; Freeza 7 variants f1..black, Cell f1/semi/perfeito, Buu kid/gordo, Gotenks normal/ssj; one-form characters still transform in battle but keep the same look). Strips may have 6–11 poses (separated figures are cut by connected components, touching ones by seams); bad frames are dropped while building (`TIRAR` in the offline script). Each pack carries `mao` (per variant: forward-most point of the last special frame, fraction of the 96x112 frame) and Freeza's `dedo` (top of the raised finger); `conjuntoPonto(key, tipo, nivel)` reads them, `triggerSpecialAttack` stores `world.especialMao` (and prefers the pack `dedo` for `world.solDedo`), and `drawSpecialBeams` starts the beam there through `p.arte` (mirror-aware). Cards never download whole packs: `conjRetratoUrl` uses `conjuntos/retratos.json` (first idle frame of each pack) until the pack is loaded. Minion strips now use the Gemini agarrando pose (frame 6). `tests/versao-102.test.js`, `tests/versao-103.test.js`.
 - Fullscreen: `toggleFullscreen` (menu.js) records `telaCheiaDesejada`; if a phone leaves fullscreen without the game's button (Android edge/back gesture), `voltarParaTelaCheia` re-requests it on the next tap (`pointerup`/`touchend`, mobile only; `telaCheiaVoltouEm` stops that same tap from toggling it off again).
 - Progress map (v0.84, 3D in v0.85, `stage_map`, "ESCOLHA A FASE"): one long road scrolling sideways, seen in perspective (horizon `MAPA_HORIZONTE_Y`). Geometry is pure in game-logic-core.js (`getMapaPosicaoFase(i)`, `MAPA_PASSO_X`, `getMapaTrecho`, `limitarRolagemMapa`, `rolagemParaFase`, and `getMapaMistura(mx)` = which two segments blend at map x and the weight, over `MAPA_MISTURA_FASES` stages around each border). [mapa.js](mapa.js) only draws: `MAPA_AMBIENTES` (Terra, Namek, espaço, deserto do Cell, Kaioshin, Bills; later segments repeat the last), each with sky/ground colours, a horizon strip (`decor`, cached per ambient, max 3, parallax `MAPA_DECOR_VEL`) and ground object types. Colours come from one small palette strip blended column by column and stretched (`getMapaPaleta`); horizon strips cross-fade through a gradient mask only in the transition stretch (`drawMapaHorizonte`, 1x helper canvas); ground objects are cached sprites in parallax rows (`MAPA_FILEIRAS`, `getMapaObjeto`), each slot picking ambient a or b by the blend weight. Also `drawMapaEstrada` (perspective ribbon, gold up to the last unlocked stage), `drawMapaSombraFase`, `drawMapaPlaca`. menu.js keeps the logic: `mapaRolagem` (null = recentre on the last unlocked stage, reset by `setGameState("stage_map")`), `getStageMapNodes` (real stages = `STAGE_PROGRESSION`, coords already minus the scroll) and `getMapaFasesFuturas` (dark padlocked stages up to `MAPA_TOTAL_FASES`; only the first carries the sign "ADVERSÁRIOS MAIS FORTES VIRÃO! PREPARE-SE", tapping any shows that text). Scroll: drag (`mapaTouchScroll`), wheel, ‹ › buttons (`MENU_LAYOUT.stageMap.left/right`, smooth via `mapaRolagemAlvo`) and pad focus (`revealPadFocusInMapa`); only fully visible nodes register as pad targets. Adding a stage = add it to `STAGE_PROGRESSION` (raise `MAPA_TOTAL_FASES` for a longer road). `tests/mapa-progresso.test.js`.
 - Ilha do Mestre Kame (`kame`, v0.85, 1st stage): `drawKameIslandStage` (cenarios3d.js) — same orbit idea as the Freeza ship: `trCam` switches to `KH_CAM` (always restored), sea/sky every frame (`drawKameIslandSea`: 360° cloud panorama `getKameIslandPanorama` drifting with `gameplayClock`, wavelets `KH_ONDAS` batched in 4 alpha levels, beach foam ring) and the island through `drawCachedOrbitLayer(khCena, ..., drawKameIslandScene)`: sand/grass, Kame House built from faces with back-face culling by the camera position (`khFace`, `khRet`, `khJanela`, painted sign `khTexto`, dormer, rooster weathervane, porch), palms/bushes/rocks sorted by depth. Angle `getStageLapAngle(scroll, KAME_ISLAND_LAP_SCROLL)`; theme `kame` in `BGM_THEMES`; `migrarProgressoIlhaKame` (game-logic-core.js, called by `loadStageProgress`) gives players who already had progress the island as completed. `tests/versao-085.test.js`.
